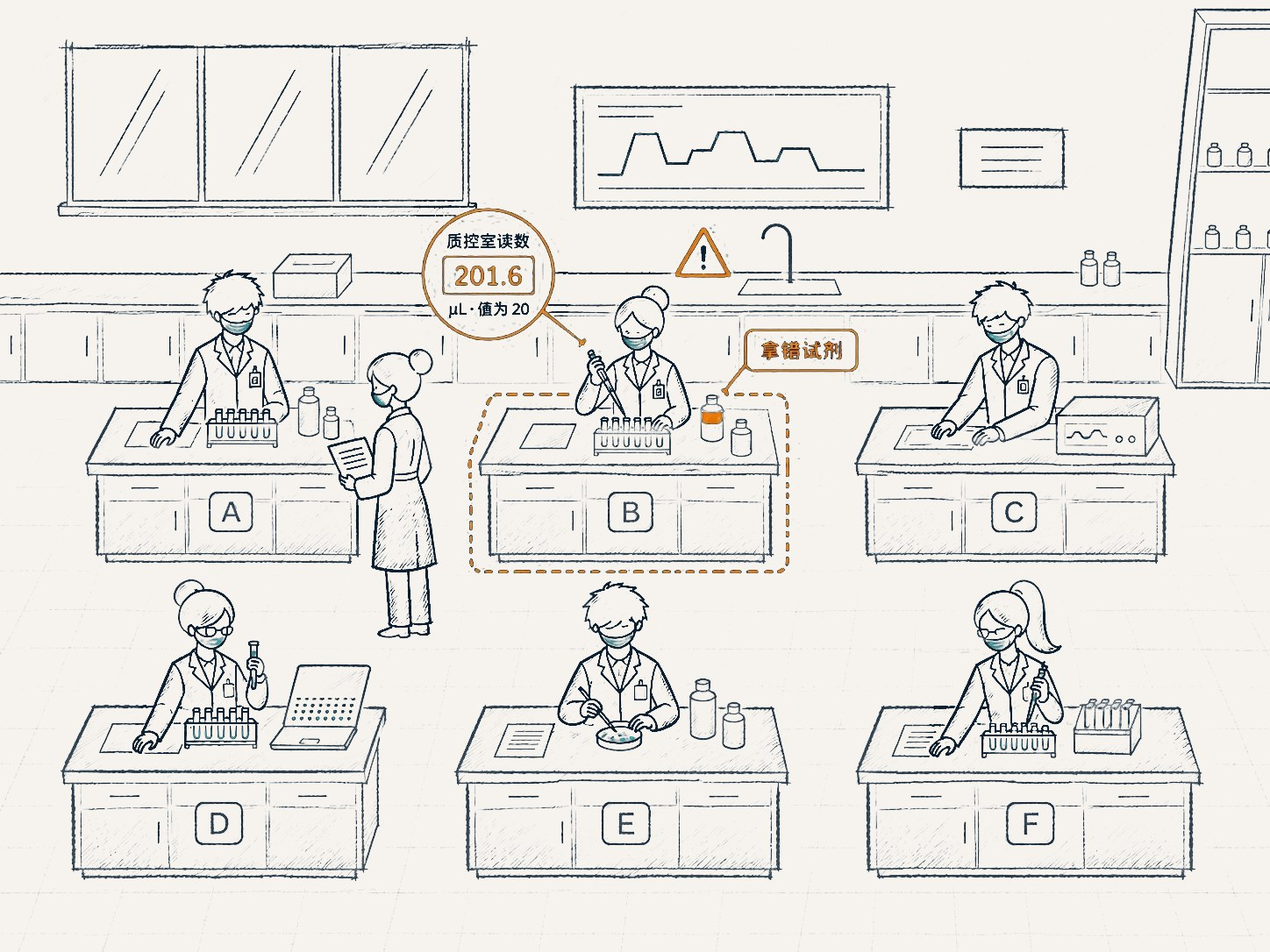
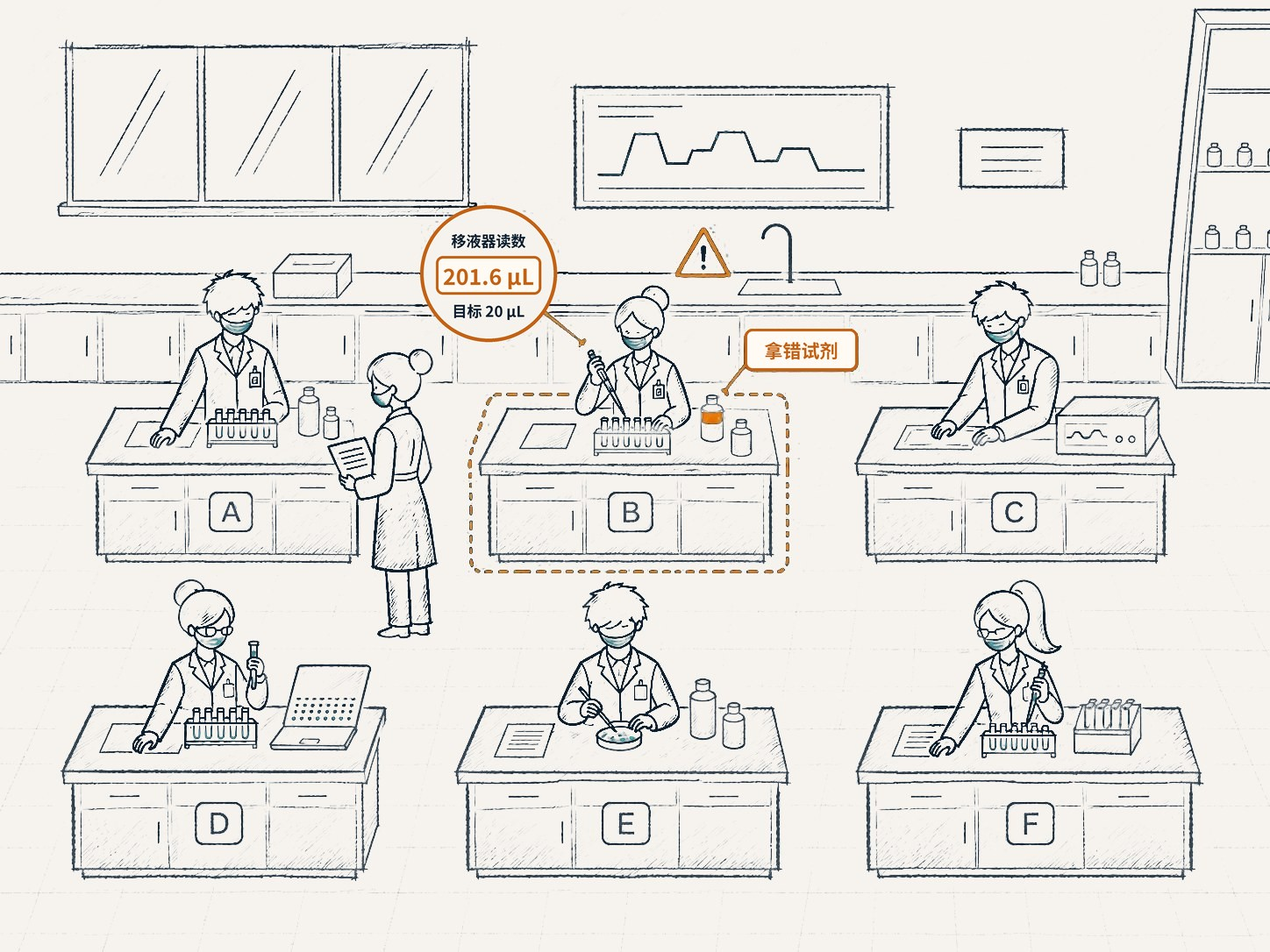
Story: 01 framed as today's class, 02-05 as the same student with LabMate; crisp redrawn labels in lab frames; section tints, teal/orange accents, navy metric panel
Claude-Session: https://claude.ai/code/session_01QyLKD32KRehfmpAtUqrHvu

Changed region(s): [[0.3108, 0.2127, 0.4662, 0.3646], [0.5905, 0.3343, 0.6837, 0.395]]

diff --git a/index.html b/index.html
@@ -11,10 +11,10 @@
 <script>if(/[?&]review/.test(location.search))document.documentElement.classList.add("review")</script>
 <link rel="stylesheet" href="styles.css?v=20261128-r19">
 <link rel="stylesheet" href="light.css?v=20261128-t3">
-<link rel="stylesheet" href="theme.css?v=20261128-t8">
+<link rel="stylesheet" href="theme.css?v=20261128-t10">
 </head>
 <body>
-<div class="view" data-view="zh-project" data-lang="zh" hidden><div class="site"><a class="skip-link" data-anchor="zh-project--main" href="#zh-project">跳转到内容</a><div class="lt"><header class="site-header"><div class="site-header-inner"><a class="site-logo" href="#zh-project"><svg aria-hidden="true" class="jw-mark" focusable="false" viewbox="-2 -2 92 104"><path d="M4 35V26A22 22 0 0 1 26 4H62A22 22 0 0 1 84 26V74A22 22 0 0 1 62 96H26A22 22 0 0 1 4 74V63" fill="none" stroke="currentColor" stroke-linecap="round" stroke-width="7.5"></path><circle cx="3.4" cy="49" fill="currentColor" r="5"></circle></svg><span class="site-logo-text"><b>见微科技</b><span>LabMate AI</span></span></a><nav aria-label="网站导航" class="site-nav" id="zh-project--site-nav"><a aria-current="page" href="#zh-project">项目介绍</a><a href="#zh-team">团队</a><a href="hackathon/">News</a><a href="product/demo/">Demo</a></nav><div class="site-actions"><button aria-controls="zh-project--site-nav" aria-expanded="false" aria-label="打开菜单" class="site-menu"><span aria-hidden="true" class="site-burger"><i></i><i></i></span></button></div></div></header><main id="zh-project--main"><div class="site-page"><div class="x-hero-track" data-hero-track="true"><section class="x-hero"><div aria-hidden="true" class="x-hero-light"></div><div aria-hidden="true" class="x-pov x-labpov"><div class="x-labpov-in"><div class="lb ls-hero"><img class="lb-img" src="bp/lab2-base.jpg?v=20261128-light2" width="1446" height="910" alt="实验室线稿插画：六张实验台，老师站在 A 台旁" decoding="async"/><img class="lb-img lb-frame" data-f="warn" src="bp/lab2-warn.jpg?v=20261128-light2" width="1446" height="910" alt="" aria-hidden="true" decoding="async"/><img class="lb-img lb-frame" data-f="detail" src="bp/lab2-detail.zh.jpg?v=20261128-light2" width="1446" height="910" alt="" aria-hidden="true" decoding="async"/><img class="lb-img lb-frame" data-f="teacher" src="bp/lab2-teacher.zh.jpg?v=20261128-light2" width="1446" height="910" alt="" aria-hidden="true" decoding="async"/><img class="lb-img lb-frame" data-f="after" src="bp/lab2-after.zh.jpg?v=20261128-light2" width="1446" height="910" alt="" aria-hidden="true" decoding="async"/><span class="lb-dim lb-dim-a" aria-hidden="true"></span><span class="lb-dim lb-dim-b" aria-hidden="true"></span><span class="lb-ring" aria-hidden="true" style="left:39.07330567081605%;top:20.0%;width:24.20470262793914%;height:38.24175824175824%"></span><svg class="lb-glasses" viewBox="0 0 80 26" aria-hidden="true" style="left:49.93084370677732%;top:24.285714285714285%;width:3.7344398340248963%"><path d="M2 6h76"></path><rect x="6" y="5" width="30" height="17" rx="5"></rect><rect x="44" y="5" width="30" height="17" rx="5"></rect><circle cx="70" cy="7.5" r="1.6" class="lb-cam"></circle></svg><span class="lb-chip" data-b="A" aria-hidden="true" style="left:21.23098201936376%;top:50.76923076923077%;--v:0.6666666666666666"><i class="lb-dot"></i>第 6/9 步<i class="lb-bar"></i></span><span class="lb-chip" data-b="B" aria-hidden="true" style="left:53.665283540802214%;top:50.76923076923077%;--v:0.1111111111111111"><i class="lb-dot"></i>第 1/9 步<i class="lb-bar"></i></span><span class="lb-chip" data-b="C" aria-hidden="true" style="left:84.37067773167358%;top:50.76923076923077%;--v:0.1111111111111111"><i class="lb-dot"></i>第 1/9 步<i class="lb-bar"></i></span><span class="lb-chip" data-b="D" aria-hidden="true" style="left:19.502074688796682%;top:90.54945054945055%;--v:0.5555555555555556"><i class="lb-dot"></i>第 5/9 步<i class="lb-bar"></i></span><span class="lb-chip" data-b="E" aria-hidden="true" style="left:51.65975103734441%;top:90.54945054945055%;--v:0.3333333333333333"><i class="lb-dot"></i>第 3/9 步<i class="lb-bar"></i></span><span class="lb-chip" data-b="F" aria-hidden="true" style="left:83.81742738589212%;top:90.54945054945055%;--v:0.7777777777777778"><i class="lb-dot"></i>第 7/9 步<i class="lb-bar"></i></span><span class="lb-tag lb-warn" data-t="warn" style="left:51.31396957123098%;top:14.505494505494507%">B 台出错了，老师没看到</span><span class="lb-tag lb-warn" data-t="detail" style="left:65.6984785615491%;top:61.75824175824176%">移液量设错，试剂也拿错了</span><span class="lb-tag lb-ok" data-t="dev" style="left:51.31396957123098%;top:14.505494505494507%">回到课前，先用平板准备</span><span class="lb-tag lb-ok" data-t="after" style="left:69.84785615491009%;top:5.714285714285714%">B 台已纠正；C 台的新提醒，老师也第一时间看到</span></div><p class="x-labpov-cap">一节 PCR 实验课，一位老师，六张台。</p></div></div><div class="x-hero-stage"><div class="g3d g3d-hero" data-glasses3d="hero"><svg aria-label="LabMate AR 眼镜示意图：镜片中叠加实验步骤提示" class="glasses-art has-view" role="img" viewbox="0 0 1200 430"><defs><lineargradient id="zh-project--hero-frame" x1="0" x2="0" y1="0" y2="1"><stop offset="0" stop-color="#5a6573"></stop><stop offset="0.2" stop-color="#2a3038"></stop><stop offset="1" stop-color="#0e1116"></stop></lineargradient><lineargradient id="zh-project--hero-glass" x1="0" x2="1" y1="0" y2="1"><stop offset="0" stop-color="#ffffff" stop-opacity="0.22"></stop><stop offset="0.35" stop-color="#ffffff" stop-opacity="0.04"></stop><stop offset="1" stop-color="#93b4d8" stop-opacity="0.08"></stop></lineargradient><lineargradient id="zh-project--hero-tint" x1="0" x2="0" y1="0" y2="1"><stop offset="0" stop-color="#0e2a33" stop-opacity="0.28"></stop><stop offset="1" stop-color="#0e2a33" stop-opacity="0.08"></stop></lineargradient><lineargradient id="zh-project--hero-rim" x1="0" x2="0" y1="0" y2="1"><stop offset="0" stop-color="#c9d6e3" stop-opacity="0.75"></stop><stop offset="0.3" stop-color="#93b4d8" stop-opacity="0.25"></stop><stop offset="1" stop-color="#ffffff" stop-opacity="0.05"></stop></lineargradient><filter height="140%" id="zh-project--hero-blur" width="140%" x="-20%" y="-20%"><fegaussianblur stddeviation="7"></fegaussianblur></filter><radialgradient cx="0.5" cy="0.5" id="zh-project--hero-fade" r="0.55"><stop offset="0.55" stop-color="#fff"></stop><stop offset="1" stop-color="#000"></stop></radialgradient><mask height="830" id="zh-project--hero-world" maskunits="userSpaceOnUse" width="1600" x="-200" y="-200"><rect fill="url(#zh-project--hero-fade)" height="830" width="1600" x="-200" y="-200"></rect></mask><lineargradient id="zh-project--hero-temple" x1="0" x2="0" y1="1" y2="0"><stop offset="0" stop-color="#2a323c"></stop><stop offset="1" stop-color="#2a323c" stop-opacity="0"></stop></lineargradient><clippath id="zh-project--hero-lenses"><rect height="274" rx="96" width="476" x="82" y="74"></rect><rect height="274" rx="96" width="476" x="642" y="74"></rect></clippath></defs><g class="ga-world" mask="url(#zh-project--hero-world)"><image height="1800" href="bp/glasses-guidance.jpg?v=20261126010235" opacity="0.42" width="1800" x="-42" y="-827"/></g><path d="M48 114 L80 108 L300 -40 L286 -42 Z" fill="url(#zh-project--hero-temple)"></path><path d="M1152 114 L1120 108 L900 -40 L914 -42 Z" fill="url(#zh-project--hero-temple)"></path><rect fill="url(#zh-project--hero-frame)" height="30" rx="9" width="44" x="40" y="104"></rect><rect fill="url(#zh-project--hero-frame)" height="30" rx="9" width="44" x="1116" y="104"></rect><circle cx="1142" cy="119" fill="#05070a" r="9" stroke="#2c3644" stroke-width="3"></circle><circle cx="1142" cy="119" fill="#123a4c" r="4"></circle><circle class="ga-led" cx="1157" cy="110" fill="#3ddc97" r="2.2"></circle><g fill="url(#zh-project--hero-frame)"><rect height="298" rx="108" width="502" x="70" y="62"></rect><rect height="298" rx="108" width="502" x="628" y="62"></rect><path d="M566 118 C584 92 616 92 634 118 L634 138 C616 116 584 116 566 138 Z"></path></g><g fill="none" stroke-linecap="round"><rect height="298" rx="108" stroke="url(#zh-project--hero-rim)" stroke-width="2" width="502" x="70" y="62"></rect><rect height="298" rx="108" stroke="url(#zh-project--hero-rim)" stroke-width="2" width="502" x="628" y="62"></rect></g><g fill="#2a3340"><ellipse cx="548" cy="214" rx="9" ry="20"></ellipse><ellipse cx="652" cy="214" rx="9" ry="20"></ellipse></g><g clip-path="url(#zh-project--hero-lenses)"><rect fill="#0a1119" height="430" width="1200" x="0" y="0"></rect><image class="ga-view" height="1800" href="bp/glasses-guidance.jpg?v=20261126010235" preserveaspectratio="xMinYMin slice" width="1800" x="-42" y="-827"/><rect fill="url(#zh-project--hero-tint)" height="430" width="1200" x="0" y="0"></rect><rect class="ga-scan" height="3" width="1200" x="0" y="74"></rect><rect fill="url(#zh-project--hero-glass)" height="430" width="1200" x="0" y="0"></rect><path d="M150 74 L250 74 L120 348 L82 348 L82 250 Z" fill="#ffffff" opacity="0.05"></path><path d="M710 74 L790 74 L660 348 L642 348 L642 300 Z" fill="#ffffff" opacity="0.05"></path></g><g fill="none" stroke="#93b4d8" stroke-opacity="0.35" stroke-width="1.5"><rect height="274" rx="96" width="476" x="82" y="74"></rect><rect height="274" rx="96" width="476" x="642" y="74"></rect></g><g class="ga-hud"><g class="ga-chip c1"><rect height="36" rx="9" width="250" x="122" y="100"></rect><text x="138" y="124">1/9 · 加水 20 µL</text></g><g class="ga-list c2"><path d="M138 176 V 302"></path><g class="on"><circle cx="138" cy="168" r="6"></circle><text x="156" y="174">调量</text></g><g class=""><circle cx="138" cy="202" r="6"></circle><text x="156" y="208">装枪头</text></g><g class=""><circle cx="138" cy="236" r="6"></circle><text x="156" y="242">吸液</text></g><g class=""><circle cx="138" cy="270" r="6"></circle><text x="156" y="276">排液</text></g><g class=""><circle cx="138" cy="304" r="6"></circle><text x="156" y="310">退枪头</text></g></g><g class="ga-box c3"><path d="M852 122 h-16 v22 M922 122 h16 v22 M852 268 h-16 v-22 M922 268 h16 v-22"></path></g><g class="ga-chip warn c4"><rect height="56" rx="9" width="140" x="676" y="124"></rect><text class="small" x="690" y="148">读数</text><text x="682" y="172">201.6 µL</text></g><g class="ga-chip ok c5"><rect height="36" rx="9" width="404" x="676" y="292"></rect><text x="692" y="316">朝减小方向调整旋钮 → 20 µL</text></g></g></svg></div><span aria-hidden="true" class="x-hero-floor"></span></div><div class="x-hero-copy"><p class="x-lockup">LabMate AI<!-- --> <span>多终端 AI 实验教学平台</span></p><h1>用 AR 眼镜，<br/>实时指导学生做实验。</h1><p class="x-hero-lead">学生先在平板上预习、练会仪器；做实验时，眼镜认出每一步，操作出错当场提示；老师在教师端看到每张实验台。</p><div class="x-hero-actions hero-actions3"><a class="x-btn" data-anchor="zh-project--journey" href="#zh-project">查看真实教学流程</a><a class="x-link" href="product/demo/">产品界面演示</a><a class="x-link" href="hackathon/">最新动态</a></div><p class="x-foot">眼镜为示意渲染；实验室为示意图。</p></div></section></div><section aria-label="一次完整实验" class="xj" data-journey="true" id="zh-project--journey"><div class="xj-stage" data-k="0" data-scene="0"><div aria-hidden="true" class="xj-bar"><span style="--i:0"><i></i><small>问题</small><b>01</b>实验室</span><span style="--i:1"><i></i><small>课前</small><b>02</b>灵感</span><span style="--i:2"><i></i><small>课前</small><b>03</b>仪器</span><span style="--i:3"><i></i><small>课上</small><b>04</b>AR 实验</span><span style="--i:4"><i></i><small>课上 · 课后</small><b>05</b>教师端</span></div><div class="xj-copy"><article class="xj-cap" data-cap="0"><p class="x-chap"><b>01</b><em class="xj-when">问题</em><span>实验室 · The lab</span></p><h2>一间实验室，一位老师，六张台。</h2><p class="xj-p">这是一节 PCR 实验课。每张台做到不同的步骤，老师只能站在一张台旁边；某一步做错，往往要等结果出来才发现。先看 B 台出了什么错，再回到课前，看 LabMate 怎么一路帮他。</p><ol class="xj-steps"><li data-num="1" data-step="0">六张台，进度各不相同</li><li data-num="2" data-step="1">老师在 A 台，顾不上其他台</li><li data-num="3" data-step="2">B 台出错了，没人发现</li><li data-num="4" data-step="3">错在哪：移液量设错，试剂也拿错了</li><li data-num="5" data-step="4">回到课前：B 台的同学先在平板上准备</li></ol></article><article class="xj-cap" data-cap="1"><p class="x-chap"><b>02</b><em class="xj-when">课前</em><span>灵感 · Inspiration</span></p><h2>从一个问题开始。</h2><p class="xj-p">回到课前。B 台的同学先在平板上选一个感兴趣的小场景，在 Dr. Pipette 引导下自己搭出 PCR 方案，弄清每一步为什么这样做。</p><ol class="xj-steps"><li data-num="1" data-step="0">选一个小场景</li><li data-num="2" data-step="1">说清你的问题</li><li data-num="3" data-step="2">问 Dr. Pipette</li><li data-num="4" data-step="3">找到要检测的片段</li><li data-num="5" data-step="4">设计引物与分组</li><li data-num="6" data-step="5">整理 PCR protocol 草案</li></ol></article><article class="xj-cap" data-cap="2"><p class="x-chap"><b>03</b><em class="xj-when">课前</em><span>仪器使用 · Instrument use</span></p><h2>先会用仪器，再做完整实验。</h2><p class="xj-p">还是在课前：一步步练会微量移液器，量程、握法、两档力度都练熟，再进实验室。</p><ol class="xj-steps"><li data-num="1" data-step="0">选择移液枪</li><li data-num="2" data-step="1">调整量程</li><li data-num="3" data-step="2">正确握持</li><li data-num="4" data-step="3">感受两档力度</li><li data-num="5" data-step="4">安装枪头</li><li data-num="6" data-step="5">吸液准备与吸取</li></ol></article><article class="xj-cap" data-cap="3"><p class="x-chap"><b>04</b><em class="xj-when">课上</em><span>AR 实验 · AR lab work</span></p><h2>戴上眼镜，走到实验台。</h2><p class="xj-p">课上，B 台的同学戴上眼镜。眼镜看见当前操作，对上流程的这一步，量程设错就在视野里当场提示。</p><ol class="xj-steps"><li data-num="1" data-step="0">看见 · 认出移液器和刻度窗</li><li data-num="2" data-step="1">对齐流程 · 第 1/9 步 · 加水 20 µL</li><li data-num="3" data-step="2">判断 · 读数 201.6 µL，超出量程</li><li data-num="4" data-step="3">提示 · 请调小旋钮</li></ol></article><article class="xj-cap" data-cap="4"><p class="x-chap"><b>05</b><em class="xj-when">课上 · 课后</em><span>教师端 · Teacher</span></p><h2>教师看见每一张台。</h2><p class="xj-p">B 台纠正后，教师端同步更新；C 台出现新情况，马上标红。老师不用守在每张台旁，也能先看到需要帮助的那一张，课后再回放关键事件。</p><ol class="xj-steps"><li data-num="1" data-step="0">出错的台，在教师端标红</li><li data-num="2" data-step="1">点开这一组，按时间看关键事件</li><li data-num="3" data-step="2">课后回放，复盘过程</li><li data-num="4" data-step="3">回到实验室：每张台都戴上眼镜，老师在平板上看到 C 台需要帮助</li><li data-num="5" data-step="4">B 台已纠正，C 台的新情况也第一时间看到</li></ol></article></div><div aria-hidden="true" class="xj-view"><div class="xj-lab"><div class="lb"><img class="lb-img" src="bp/lab2-base.jpg?v=20261128-light2" width="1446" height="910" alt="实验室线稿插画：六张实验台，老师站在 A 台旁" decoding="async"/><img class="lb-img lb-frame" data-f="warn" src="bp/lab2-warn.jpg?v=20261128-light2" width="1446" height="910" alt="" aria-hidden="true" decoding="async"/><img class="lb-img lb-frame" data-f="detail" src="bp/lab2-detail.zh.jpg?v=20261128-light2" width="1446" height="910" alt="" aria-hidden="true" decoding="async"/><img class="lb-img lb-frame" data-f="teacher" src="bp/lab2-teacher.zh.jpg?v=20261128-light2" width="1446" height="910" alt="" aria-hidden="true" decoding="async"/><img class="lb-img lb-frame" data-f="after" src="bp/lab2-after.zh.jpg?v=20261128-light2" width="1446" height="910" alt="" aria-hidden="true" decoding="async"/><span class="lb-dim lb-dim-a" aria-hidden="true"></span><span class="lb-dim lb-dim-b" aria-hidden="true"></span><span class="lb-ring" aria-hidden="true" style="left:39.07330567081605%;top:20.0%;width:24.20470262793914%;height:38.24175824175824%"></span><svg class="lb-glasses" viewBox="0 0 80 26" aria-hidden="true" style="left:49.93084370677732%;top:24.285714285714285%;width:3.7344398340248963%"><path d="M2 6h76"></path><rect x="6" y="5" width="30" height="17" rx="5"></rect><rect x="44" y="5" width="30" height="17" rx="5"></rect><circle cx="70" cy="7.5" r="1.6" class="lb-cam"></circle></svg><span class="lb-chip" data-b="A" aria-hidden="true" style="left:21.23098201936376%;top:50.76923076923077%;--v:0.6666666666666666"><i class="lb-dot"></i>第 6/9 步<i class="lb-bar"></i></span><span class="lb-chip" data-b="B" aria-hidden="true" style="left:53.665283540802214%;top:50.76923076923077%;--v:0.1111111111111111"><i class="lb-dot"></i>第 1/9 步<i class="lb-bar"></i></span><span class="lb-chip" data-b="C" aria-hidden="true" style="left:84.37067773167358%;top:50.76923076923077%;--v:0.1111111111111111"><i class="lb-dot"></i>第 1/9 步<i class="lb-bar"></i></span><span class="lb-chip" data-b="D" aria-hidden="true" style="left:19.502074688796682%;top:90.54945054945055%;--v:0.5555555555555556"><i class="lb-dot"></i>第 5/9 步<i class="lb-bar"></i></span><span class="lb-chip" data-b="E" aria-hidden="true" style="left:51.65975103734441%;top:90.54945054945055%;--v:0.3333333333333333"><i class="lb-dot"></i>第 3/9 步<i class="lb-bar"></i></span><span class="lb-chip" data-b="F" aria-hidden="true" style="left:83.81742738589212%;top:90.54945054945055%;--v:0.7777777777777778"><i class="lb-dot"></i>第 7/9 步<i class="lb-bar"></i></span><span class="lb-tag lb-warn" data-t="warn" style="left:51.31396957123098%;top:14.505494505494507%">B 台出错了，老师没看到</span><span class="lb-tag lb-warn" data-t="detail" style="left:65.6984785615491%;top:61.75824175824176%">移液量设错，试剂也拿错了</span><span class="lb-tag lb-ok" data-t="dev" style="left:51.31396957123098%;top:14.505494505494507%">回到课前，先用平板准备</span><span class="lb-tag lb-ok" data-t="after" style="left:69.84785615491009%;top:5.714285714285714%">B 台已纠正；C 台的新提醒，老师也第一时间看到</span></div></div><div class="xj-tablet"><div class="xj-screen"><img alt="" class="xj-shot" data-shot="0" decoding="async" height="1161" loading="eager" src="bp/app-scene.jpg?v=20261126010235" style="color:transparent" width="1600"/><img alt="" class="xj-shot" data-shot="1" decoding="async" height="1161" loading="lazy" src="bp/app-question.jpg?v=20261126010235" style="color:transparent" width="1600"/><img alt="" class="xj-shot" data-shot="2" decoding="async" height="1161" loading="lazy" src="bp/app-pipette.jpg?v=20261126010235" style="color:transparent" width="1600"/><img alt="" class="xj-shot" data-shot="3" decoding="async" height="1161" loading="lazy" src="bp/app-segment.jpg?v=20261126010235" style="color:transparent" width="1600"/><img alt="" class="xj-shot" data-shot="4" decoding="async" height="1161" loading="lazy" src="bp/app-design.jpg?v=20261126010235" style="color:transparent" width="1600"/><img alt="" class="xj-shot" data-shot="5" decoding="async" height="1161" loading="lazy" src="bp/app-protocol.jpg?v=20261126010235" style="color:transparent" width="1600"/><img alt="" class="xj-inst" decoding="async" height="1741" loading="eager" src="bp/instrument-hd.jpg?v=20261127-fix" style="color:transparent" width="2400"/><span class="xj-hl"></span></div></div><div class="xj-zoom"><img alt="" class="xj-z" data-z="1-0" decoding="async" height="896" loading="lazy" src="bp/z-scene.jpg?v=20261126010235" style="color:transparent" width="1600"/><img alt="" class="xj-z" data-z="1-1" decoding="async" height="723" loading="lazy" src="bp/z-question.jpg?v=20261126010235" style="color:transparent" width="1600"/><img alt="" class="xj-z" data-z="1-2" decoding="async" height="647" loading="lazy" src="bp/z-pipette.jpg?v=20261126010235" style="color:transparent" width="1600"/><img alt="" class="xj-z" data-z="1-3" decoding="async" height="516" loading="lazy" src="bp/z-segment.jpg?v=20261126010235" style="color:transparent" width="1600"/><img alt="" class="xj-z" data-z="1-4" decoding="async" height="430" loading="lazy" src="bp/z-design.jpg?v=20261126010235" style="color:transparent" width="1600"/><img alt="" class="xj-z" data-z="1-5" decoding="async" height="416" loading="lazy" src="bp/z-protocol.jpg?v=20261126010235" style="color:transparent" width="1600"/><img alt="" class="xj-z" data-z="2-0" decoding="async" height="283" loading="lazy" src="bp/z-inst0.jpg?v=20261126010235" style="color:transparent" width="1400"/><img alt="" class="xj-z" data-z="2-1" decoding="async" height="283" loading="lazy" src="bp/z-inst1.jpg?v=20261126010235" style="color:transparent" width="1400"/><img alt="" class="xj-z" data-z="2-2" decoding="async" height="283" loading="lazy" src="bp/z-inst2.jpg?v=20261126010235" style="color:transparent" width="1400"/><img alt="" class="xj-z" data-z="2-3" decoding="async" height="283" loading="lazy" src="bp/z-inst3.jpg?v=20261126010235" style="color:transparent" width="1400"/><img alt="" class="xj-z" data-z="2-4" decoding="async" height="283" loading="lazy" src="bp/z-inst4.jpg?v=20261126010235" style="color:transparent" width="1400"/><img alt="" class="xj-z" data-z="2-5" decoding="async" height="566" loading="lazy" src="bp/z-inst5.jpg?v=20261126010235" style="color:transparent" width="1400"/></div><div class="xj-glasses"><div class="g3d g3d-mini" data-glasses3d="mini"></div></div><div class="xj-bench"><img alt="" decoding="async" height="675" loading="eager" src="bp/bench-pov.jpg?v=20261126010235" style="color:transparent" width="1200"/><span class="xj-ret"></span><div class="xj-hud xj-hud-task"><b>第 1/9 步</b>加水 · 20 µL</div><div class="xj-hud xj-hud-read"><span>当前读数</span><strong>201.6 µL</strong><em>超出标称量程</em></div><div class="xj-hud xj-hud-say"><i></i>请朝减小方向调整旋钮，目标 20 微升。</div></div><div class="xj-monitor"><div class="xj-mscreen"><img alt="" decoding="async" height="944" loading="eager" src="bp/teacher-workspace.png?v=20261128-c" style="color:transparent" width="1458"/><span class="xj-fcard"></span><span class="xj-fpulse"></span><span class="xj-tgt" data-tgt="0" style="left:28.7%;top:74.5%">01</span><span class="xj-tgt" data-tgt="1" style="left:57.7%;top:69.5%">02</span><span class="xj-tgt" data-tgt="2" style="left:63.3%;top:20.3%">03</span></div></div></div></div><p class="x-foot xj-foot">实验室为示意图；画面来自学生端、仪器训练与教师端原型及演示录屏；眼镜为示意渲染，界面为中文版。</p></section><section class="x-band x-ev ev2" id="zh-project--evidence"><div class="x-wrap"><header class="x-head"><p class="x-kicker">识别效果</p><h2>看懂实验过程，而不只是认出器材。</h2><p>提示要有用，眼镜得知道学生正在做哪一步、做得对不对。</p></header>
+<div class="view" data-view="zh-project" data-lang="zh" hidden><div class="site"><a class="skip-link" data-anchor="zh-project--main" href="#zh-project">跳转到内容</a><div class="lt"><header class="site-header"><div class="site-header-inner"><a class="site-logo" href="#zh-project"><svg aria-hidden="true" class="jw-mark" focusable="false" viewbox="-2 -2 92 104"><path d="M4 35V26A22 22 0 0 1 26 4H62A22 22 0 0 1 84 26V74A22 22 0 0 1 62 96H26A22 22 0 0 1 4 74V63" fill="none" stroke="currentColor" stroke-linecap="round" stroke-width="7.5"></path><circle cx="3.4" cy="49" fill="currentColor" r="5"></circle></svg><span class="site-logo-text"><b>见微科技</b><span>LabMate AI</span></span></a><nav aria-label="网站导航" class="site-nav" id="zh-project--site-nav"><a aria-current="page" href="#zh-project">项目介绍</a><a href="#zh-team">团队</a><a href="hackathon/">News</a><a href="product/demo/">Demo</a></nav><div class="site-actions"><button aria-controls="zh-project--site-nav" aria-expanded="false" aria-label="打开菜单" class="site-menu"><span aria-hidden="true" class="site-burger"><i></i><i></i></span></button></div></div></header><main id="zh-project--main"><div class="site-page"><div class="x-hero-track" data-hero-track="true"><section class="x-hero"><div aria-hidden="true" class="x-hero-light"></div><div aria-hidden="true" class="x-pov x-labpov"><div class="x-labpov-in"><div class="lb ls-hero"><img class="lb-img" src="bp/lab2-base.jpg?v=20261128-light3" width="1446" height="910" alt="实验室线稿插画：六张实验台，老师站在 A 台旁" decoding="async"/><img class="lb-img lb-frame" data-f="warn" src="bp/lab2-warn.jpg?v=20261128-light3" width="1446" height="910" alt="" aria-hidden="true" decoding="async"/><img class="lb-img lb-frame" data-f="detail" src="bp/lab2-detail.zh.jpg?v=20261128-light3" width="1446" height="910" alt="" aria-hidden="true" decoding="async"/><img class="lb-img lb-frame" data-f="teacher" src="bp/lab2-teacher.zh.jpg?v=20261128-light3" width="1446" height="910" alt="" aria-hidden="true" decoding="async"/><img class="lb-img lb-frame" data-f="after" src="bp/lab2-after.zh.jpg?v=20261128-light3" width="1446" height="910" alt="" aria-hidden="true" decoding="async"/><span class="lb-dim lb-dim-a" aria-hidden="true"></span><span class="lb-dim lb-dim-b" aria-hidden="true"></span><span class="lb-ring" aria-hidden="true" style="left:39.07330567081605%;top:20.0%;width:24.20470262793914%;height:38.24175824175824%"></span><svg class="lb-glasses" viewBox="0 0 80 26" aria-hidden="true" style="left:49.93084370677732%;top:24.285714285714285%;width:3.7344398340248963%"><path d="M2 6h76"></path><rect x="6" y="5" width="30" height="17" rx="5"></rect><rect x="44" y="5" width="30" height="17" rx="5"></rect><circle cx="70" cy="7.5" r="1.6" class="lb-cam"></circle></svg><span class="lb-chip" data-b="A" aria-hidden="true" style="left:21.23098201936376%;top:50.76923076923077%;--v:0.6666666666666666"><i class="lb-dot"></i>第 6/9 步<i class="lb-bar"></i></span><span class="lb-chip" data-b="B" aria-hidden="true" style="left:53.665283540802214%;top:50.76923076923077%;--v:0.1111111111111111"><i class="lb-dot"></i>第 1/9 步<i class="lb-bar"></i></span><span class="lb-chip" data-b="C" aria-hidden="true" style="left:84.37067773167358%;top:50.76923076923077%;--v:0.1111111111111111"><i class="lb-dot"></i>第 1/9 步<i class="lb-bar"></i></span><span class="lb-chip" data-b="D" aria-hidden="true" style="left:19.502074688796682%;top:90.54945054945055%;--v:0.5555555555555556"><i class="lb-dot"></i>第 5/9 步<i class="lb-bar"></i></span><span class="lb-chip" data-b="E" aria-hidden="true" style="left:51.65975103734441%;top:90.54945054945055%;--v:0.3333333333333333"><i class="lb-dot"></i>第 3/9 步<i class="lb-bar"></i></span><span class="lb-chip" data-b="F" aria-hidden="true" style="left:83.81742738589212%;top:90.54945054945055%;--v:0.7777777777777778"><i class="lb-dot"></i>第 7/9 步<i class="lb-bar"></i></span><span class="lb-tag lb-warn" data-t="warn" style="left:51.31396957123098%;top:14.505494505494507%">B 台出错了，老师没看到</span><span class="lb-tag lb-warn" data-t="detail" style="left:65.6984785615491%;top:61.75824175824176%">移液量设错，试剂也拿错了</span><span class="lb-tag lb-ok" data-t="dev" style="left:51.31396957123098%;top:14.505494505494507%">回到课前，先用平板准备</span><span class="lb-tag lb-ok" data-t="after" style="left:69.84785615491009%;top:5.714285714285714%">B 台已纠正；C 台的新提醒，老师也第一时间看到</span></div><p class="x-labpov-cap">一节 PCR 实验课，一位老师，六张台。</p></div></div><div class="x-hero-stage"><div class="g3d g3d-hero" data-glasses3d="hero"><svg aria-label="LabMate AR 眼镜示意图：镜片中叠加实验步骤提示" class="glasses-art has-view" role="img" viewbox="0 0 1200 430"><defs><lineargradient id="zh-project--hero-frame" x1="0" x2="0" y1="0" y2="1"><stop offset="0" stop-color="#5a6573"></stop><stop offset="0.2" stop-color="#2a3038"></stop><stop offset="1" stop-color="#0e1116"></stop></lineargradient><lineargradient id="zh-project--hero-glass" x1="0" x2="1" y1="0" y2="1"><stop offset="0" stop-color="#ffffff" stop-opacity="0.22"></stop><stop offset="0.35" stop-color="#ffffff" stop-opacity="0.04"></stop><stop offset="1" stop-color="#93b4d8" stop-opacity="0.08"></stop></lineargradient><lineargradient id="zh-project--hero-tint" x1="0" x2="0" y1="0" y2="1"><stop offset="0" stop-color="#0e2a33" stop-opacity="0.28"></stop><stop offset="1" stop-color="#0e2a33" stop-opacity="0.08"></stop></lineargradient><lineargradient id="zh-project--hero-rim" x1="0" x2="0" y1="0" y2="1"><stop offset="0" stop-color="#c9d6e3" stop-opacity="0.75"></stop><stop offset="0.3" stop-color="#93b4d8" stop-opacity="0.25"></stop><stop offset="1" stop-color="#ffffff" stop-opacity="0.05"></stop></lineargradient><filter height="140%" id="zh-project--hero-blur" width="140%" x="-20%" y="-20%"><fegaussianblur stddeviation="7"></fegaussianblur></filter><radialgradient cx="0.5" cy="0.5" id="zh-project--hero-fade" r="0.55"><stop offset="0.55" stop-color="#fff"></stop><stop offset="1" stop-color="#000"></stop></radialgradient><mask height="830" id="zh-project--hero-world" maskunits="userSpaceOnUse" width="1600" x="-200" y="-200"><rect fill="url(#zh-project--hero-fade)" height="830" width="1600" x="-200" y="-200"></rect></mask><lineargradient id="zh-project--hero-temple" x1="0" x2="0" y1="1" y2="0"><stop offset="0" stop-color="#2a323c"></stop><stop offset="1" stop-color="#2a323c" stop-opacity="0"></stop></lineargradient><clippath id="zh-project--hero-lenses"><rect height="274" rx="96" width="476" x="82" y="74"></rect><rect height="274" rx="96" width="476" x="642" y="74"></rect></clippath></defs><g class="ga-world" mask="url(#zh-project--hero-world)"><image height="1800" href="bp/glasses-guidance.jpg?v=20261126010235" opacity="0.42" width="1800" x="-42" y="-827"/></g><path d="M48 114 L80 108 L300 -40 L286 -42 Z" fill="url(#zh-project--hero-temple)"></path><path d="M1152 114 L1120 108 L900 -40 L914 -42 Z" fill="url(#zh-project--hero-temple)"></path><rect fill="url(#zh-project--hero-frame)" height="30" rx="9" width="44" x="40" y="104"></rect><rect fill="url(#zh-project--hero-frame)" height="30" rx="9" width="44" x="1116" y="104"></rect><circle cx="1142" cy="119" fill="#05070a" r="9" stroke="#2c3644" stroke-width="3"></circle><circle cx="1142" cy="119" fill="#123a4c" r="4"></circle><circle class="ga-led" cx="1157" cy="110" fill="#3ddc97" r="2.2"></circle><g fill="url(#zh-project--hero-frame)"><rect height="298" rx="108" width="502" x="70" y="62"></rect><rect height="298" rx="108" width="502" x="628" y="62"></rect><path d="M566 118 C584 92 616 92 634 118 L634 138 C616 116 584 116 566 138 Z"></path></g><g fill="none" stroke-linecap="round"><rect height="298" rx="108" stroke="url(#zh-project--hero-rim)" stroke-width="2" width="502" x="70" y="62"></rect><rect height="298" rx="108" stroke="url(#zh-project--hero-rim)" stroke-width="2" width="502" x="628" y="62"></rect></g><g fill="#2a3340"><ellipse cx="548" cy="214" rx="9" ry="20"></ellipse><ellipse cx="652" cy="214" rx="9" ry="20"></ellipse></g><g clip-path="url(#zh-project--hero-lenses)"><rect fill="#0a1119" height="430" width="1200" x="0" y="0"></rect><image class="ga-view" height="1800" href="bp/glasses-guidance.jpg?v=20261126010235" preserveaspectratio="xMinYMin slice" width="1800" x="-42" y="-827"/><rect fill="url(#zh-project--hero-tint)" height="430" width="1200" x="0" y="0"></rect><rect class="ga-scan" height="3" width="1200" x="0" y="74"></rect><rect fill="url(#zh-project--hero-glass)" height="430" width="1200" x="0" y="0"></rect><path d="M150 74 L250 74 L120 348 L82 348 L82 250 Z" fill="#ffffff" opacity="0.05"></path><path d="M710 74 L790 74 L660 348 L642 348 L642 300 Z" fill="#ffffff" opacity="0.05"></path></g><g fill="none" stroke="#93b4d8" stroke-opacity="0.35" stroke-width="1.5"><rect height="274" rx="96" width="476" x="82" y="74"></rect><rect height="274" rx="96" width="476" x="642" y="74"></rect></g><g class="ga-hud"><g class="ga-chip c1"><rect height="36" rx="9" width="250" x="122" y="100"></rect><text x="138" y="124">1/9 · 加水 20 µL</text></g><g class="ga-list c2"><path d="M138 176 V 302"></path><g class="on"><circle cx="138" cy="168" r="6"></circle><text x="156" y="174">调量</text></g><g class=""><circle cx="138" cy="202" r="6"></circle><text x="156" y="208">装枪头</text></g><g class=""><circle cx="138" cy="236" r="6"></circle><text x="156" y="242">吸液</text></g><g class=""><circle cx="138" cy="270" r="6"></circle><text x="156" y="276">排液</text></g><g class=""><circle cx="138" cy="304" r="6"></circle><text x="156" y="310">退枪头</text></g></g><g class="ga-box c3"><path d="M852 122 h-16 v22 M922 122 h16 v22 M852 268 h-16 v-22 M922 268 h16 v-22"></path></g><g class="ga-chip warn c4"><rect height="56" rx="9" width="140" x="676" y="124"></rect><text class="small" x="690" y="148">读数</text><text x="682" y="172">201.6 µL</text></g><g class="ga-chip ok c5"><rect height="36" rx="9" width="404" x="676" y="292"></rect><text x="692" y="316">朝减小方向调整旋钮 → 20 µL</text></g></g></svg></div><span aria-hidden="true" class="x-hero-floor"></span></div><div class="x-hero-copy"><p class="x-lockup">LabMate AI<!-- --> <span>多终端 AI 实验教学平台</span></p><h1>用 AR 眼镜，<br/>实时指导学生做实验。</h1><p class="x-hero-lead">学生先在平板上预习、练会仪器；做实验时，眼镜认出每一步，操作出错当场提示；老师在教师端看到每张实验台。</p><div class="x-hero-actions hero-actions3"><a class="x-btn" data-anchor="zh-project--journey" href="#zh-project">查看真实教学流程</a><a class="x-link" href="product/demo/">产品界面演示</a><a class="x-link" href="hackathon/">最新动态</a></div><p class="x-foot">眼镜为示意渲染；实验室为示意图。</p></div></section></div><section aria-label="一次完整实验" class="xj" data-journey="true" id="zh-project--journey"><div class="xj-stage" data-k="0" data-scene="0"><div aria-hidden="true" class="xj-bar"><span style="--i:0"><i></i><small>现在</small><b>01</b>实验室</span><span style="--i:1"><i></i><small>课前</small><b>02</b>灵感</span><span style="--i:2"><i></i><small>课前</small><b>03</b>仪器</span><span style="--i:3"><i></i><small>课上</small><b>04</b>AR 实验</span><span style="--i:4"><i></i><small>课上 · 课后</small><b>05</b>教师端</span></div><div class="xj-copy"><article class="xj-cap" data-cap="0"><p class="x-chap"><b>01</b><em class="xj-when">现在</em><span>没有 LabMate 的课堂</span></p><h2>一间实验室，一位老师，六张台。</h2><p class="xj-p">先看一节普通的 PCR 实验课。六张台同时在做，老师只有一位，只能站在一张台旁边。B 台的同学把移液量设错、还拿错了试剂，要等结果出来才发现。</p><ol class="xj-steps"><li data-num="1" data-step="0">六张台，进度各不相同</li><li data-num="2" data-step="1">老师在 A 台，顾不上其他台</li><li data-num="3" data-step="2">B 台出错了，没人发现</li><li data-num="4" data-step="3">错在哪：移液量设错，试剂也拿错了</li><li data-num="5" data-step="4">接下来，跟着 B 台的这位同学，看用上 LabMate 后有什么不同</li></ol></article><article class="xj-cap" data-cap="1"><p class="x-chap"><b>02</b><em class="xj-when">课前</em><span>灵感 · Inspiration</span></p><h2>从一个问题开始。</h2><p class="xj-p">这一次，从课前开始。B 台的同学先在平板上选一个感兴趣的小场景，在 Dr. Pipette 引导下自己搭出 PCR 方案，弄清每一步为什么这样做。</p><ol class="xj-steps"><li data-num="1" data-step="0">选一个小场景</li><li data-num="2" data-step="1">说清你的问题</li><li data-num="3" data-step="2">问 Dr. Pipette</li><li data-num="4" data-step="3">找到要检测的片段</li><li data-num="5" data-step="4">设计引物与分组</li><li data-num="6" data-step="5">整理 PCR protocol 草案</li></ol></article><article class="xj-cap" data-cap="2"><p class="x-chap"><b>03</b><em class="xj-when">课前</em><span>仪器使用 · Instrument use</span></p><h2>先会用仪器，再做完整实验。</h2><p class="xj-p">还是在课前：一步步练会微量移液器，量程、握法、两档力度都练熟，再进实验室。上次设错的移液量，在这里先练对。</p><ol class="xj-steps"><li data-num="1" data-step="0">选择移液枪</li><li data-num="2" data-step="1">调整量程</li><li data-num="3" data-step="2">正确握持</li><li data-num="4" data-step="3">感受两档力度</li><li data-num="5" data-step="4">安装枪头</li><li data-num="6" data-step="5">吸液准备与吸取</li></ol></article><article class="xj-cap" data-cap="3"><p class="x-chap"><b>04</b><em class="xj-when">课上</em><span>AR 实验 · AR lab work</span></p><h2>戴上眼镜，走到实验台。</h2><p class="xj-p">课上，B 台的同学戴上眼镜。这一次移液量刚设错，眼镜就认出来，在视野里提示他调回 20 µL，不用等到结果出来。</p><ol class="xj-steps"><li data-num="1" data-step="0">看见 · 认出移液器和刻度窗</li><li data-num="2" data-step="1">对齐流程 · 第 1/9 步 · 加水 20 µL</li><li data-num="3" data-step="2">判断 · 读数 201.6 µL，超出量程</li><li data-num="4" data-step="3">提示 · 请调小旋钮</li></ol></article><article class="xj-cap" data-cap="4"><p class="x-chap"><b>05</b><em class="xj-when">课上 · 课后</em><span>教师端 · Teacher</span></p><h2>教师看见每一张台。</h2><p class="xj-p">回到开头那间实验室：老师在平板上看到每一张台。B 台已经自己纠正；C 台出现新情况，马上标红。老师先去需要帮助的那一张，课后还能回放关键事件。</p><ol class="xj-steps"><li data-num="1" data-step="0">出错的台，在教师端标红</li><li data-num="2" data-step="1">点开这一组，按时间看关键事件</li><li data-num="3" data-step="2">课后回放，复盘过程</li><li data-num="4" data-step="3">回到实验室：每张台都戴上眼镜，老师在平板上看到 C 台需要帮助</li><li data-num="5" data-step="4">B 台已纠正，C 台的新情况也第一时间看到</li></ol></article></div><div aria-hidden="true" class="xj-view"><div class="xj-lab"><div class="lb"><img class="lb-img" src="bp/lab2-base.jpg?v=20261128-light3" width="1446" height="910" alt="实验室线稿插画：六张实验台，老师站在 A 台旁" decoding="async"/><img class="lb-img lb-frame" data-f="warn" src="bp/lab2-warn.jpg?v=20261128-light3" width="1446" height="910" alt="" aria-hidden="true" decoding="async"/><img class="lb-img lb-frame" data-f="detail" src="bp/lab2-detail.zh.jpg?v=20261128-light3" width="1446" height="910" alt="" aria-hidden="true" decoding="async"/><img class="lb-img lb-frame" data-f="teacher" src="bp/lab2-teacher.zh.jpg?v=20261128-light3" width="1446" height="910" alt="" aria-hidden="true" decoding="async"/><img class="lb-img lb-frame" data-f="after" src="bp/lab2-after.zh.jpg?v=20261128-light3" width="1446" height="910" alt="" aria-hidden="true" decoding="async"/><span class="lb-dim lb-dim-a" aria-hidden="true"></span><span class="lb-dim lb-dim-b" aria-hidden="true"></span><span class="lb-ring" aria-hidden="true" style="left:39.07330567081605%;top:20.0%;width:24.20470262793914%;height:38.24175824175824%"></span><svg class="lb-glasses" viewBox="0 0 80 26" aria-hidden="true" style="left:49.93084370677732%;top:24.285714285714285%;width:3.7344398340248963%"><path d="M2 6h76"></path><rect x="6" y="5" width="30" height="17" rx="5"></rect><rect x="44" y="5" width="30" height="17" rx="5"></rect><circle cx="70" cy="7.5" r="1.6" class="lb-cam"></circle></svg><span class="lb-chip" data-b="A" aria-hidden="true" style="left:21.23098201936376%;top:50.76923076923077%;--v:0.6666666666666666"><i class="lb-dot"></i>第 6/9 步<i class="lb-bar"></i></span><span class="lb-chip" data-b="B" aria-hidden="true" style="left:53.665283540802214%;top:50.76923076923077%;--v:0.1111111111111111"><i class="lb-dot"></i>第 1/9 步<i class="lb-bar"></i></span><span class="lb-chip" data-b="C" aria-hidden="true" style="left:84.37067773167358%;top:50.76923076923077%;--v:0.1111111111111111"><i class="lb-dot"></i>第 1/9 步<i class="lb-bar"></i></span><span class="lb-chip" data-b="D" aria-hidden="true" style="left:19.502074688796682%;top:90.54945054945055%;--v:0.5555555555555556"><i class="lb-dot"></i>第 5/9 步<i class="lb-bar"></i></span><span class="lb-chip" data-b="E" aria-hidden="true" style="left:51.65975103734441%;top:90.54945054945055%;--v:0.3333333333333333"><i class="lb-dot"></i>第 3/9 步<i class="lb-bar"></i></span><span class="lb-chip" data-b="F" aria-hidden="true" style="left:83.81742738589212%;top:90.54945054945055%;--v:0.7777777777777778"><i class="lb-dot"></i>第 7/9 步<i class="lb-bar"></i></span><span class="lb-tag lb-warn" data-t="warn" style="left:51.31396957123098%;top:14.505494505494507%">B 台出错了，老师没看到</span><span class="lb-tag lb-warn" data-t="detail" style="left:65.6984785615491%;top:61.75824175824176%">移液量设错，试剂也拿错了</span><span class="lb-tag lb-ok" data-t="dev" style="left:51.31396957123098%;top:14.505494505494507%">回到课前，先用平板准备</span><span class="lb-tag lb-ok" data-t="after" style="left:69.84785615491009%;top:5.714285714285714%">B 台已纠正；C 台的新提醒，老师也第一时间看到</span></div></div><div class="xj-tablet"><div class="xj-screen"><img alt="" class="xj-shot" data-shot="0" decoding="async" height="1161" loading="eager" src="bp/app-scene.jpg?v=20261126010235" style="color:transparent" width="1600"/><img alt="" class="xj-shot" data-shot="1" decoding="async" height="1161" loading="lazy" src="bp/app-question.jpg?v=20261126010235" style="color:transparent" width="1600"/><img alt="" class="xj-shot" data-shot="2" decoding="async" height="1161" loading="lazy" src="bp/app-pipette.jpg?v=20261126010235" style="color:transparent" width="1600"/><img alt="" class="xj-shot" data-shot="3" decoding="async" height="1161" loading="lazy" src="bp/app-segment.jpg?v=20261126010235" style="color:transparent" width="1600"/><img alt="" class="xj-shot" data-shot="4" decoding="async" height="1161" loading="lazy" src="bp/app-design.jpg?v=20261126010235" style="color:transparent" width="1600"/><img alt="" class="xj-shot" data-shot="5" decoding="async" height="1161" loading="lazy" src="bp/app-protocol.jpg?v=20261126010235" style="color:transparent" width="1600"/><img alt="" class="xj-inst" decoding="async" height="1741" loading="eager" src="bp/instrument-hd.jpg?v=20261127-fix" style="color:transparent" width="2400"/><span class="xj-hl"></span></div></div><div class="xj-zoom"><img alt="" class="xj-z" data-z="1-0" decoding="async" height="896" loading="lazy" src="bp/z-scene.jpg?v=20261126010235" style="color:transparent" width="1600"/><img alt="" class="xj-z" data-z="1-1" decoding="async" height="723" loading="lazy" src="bp/z-question.jpg?v=20261126010235" style="color:transparent" width="1600"/><img alt="" class="xj-z" data-z="1-2" decoding="async" height="647" loading="lazy" src="bp/z-pipette.jpg?v=20261126010235" style="color:transparent" width="1600"/><img alt="" class="xj-z" data-z="1-3" decoding="async" height="516" loading="lazy" src="bp/z-segment.jpg?v=20261126010235" style="color:transparent" width="1600"/><img alt="" class="xj-z" data-z="1-4" decoding="async" height="430" loading="lazy" src="bp/z-design.jpg?v=20261126010235" style="color:transparent" width="1600"/><img alt="" class="xj-z" data-z="1-5" decoding="async" height="416" loading="lazy" src="bp/z-protocol.jpg?v=20261126010235" style="color:transparent" width="1600"/><img alt="" class="xj-z" data-z="2-0" decoding="async" height="283" loading="lazy" src="bp/z-inst0.jpg?v=20261126010235" style="color:transparent" width="1400"/><img alt="" class="xj-z" data-z="2-1" decoding="async" height="283" loading="lazy" src="bp/z-inst1.jpg?v=20261126010235" style="color:transparent" width="1400"/><img alt="" class="xj-z" data-z="2-2" decoding="async" height="283" loading="lazy" src="bp/z-inst2.jpg?v=20261126010235" style="color:transparent" width="1400"/><img alt="" class="xj-z" data-z="2-3" decoding="async" height="283" loading="lazy" src="bp/z-inst3.jpg?v=20261126010235" style="color:transparent" width="1400"/><img alt="" class="xj-z" data-z="2-4" decoding="async" height="283" loading="lazy" src="bp/z-inst4.jpg?v=20261126010235" style="color:transparent" width="1400"/><img alt="" class="xj-z" data-z="2-5" decoding="async" height="566" loading="lazy" src="bp/z-inst5.jpg?v=20261126010235" style="color:transparent" width="1400"/></div><div class="xj-glasses"><div class="g3d g3d-mini" data-glasses3d="mini"></div></div><div class="xj-bench"><img alt="" decoding="async" height="675" loading="eager" src="bp/bench-pov.jpg?v=20261126010235" style="color:transparent" width="1200"/><span class="xj-ret"></span><div class="xj-hud xj-hud-task"><b>第 1/9 步</b>加水 · 20 µL</div><div class="xj-hud xj-hud-read"><span>当前读数</span><strong>201.6 µL</strong><em>超出标称量程</em></div><div class="xj-hud xj-hud-say"><i></i>请朝减小方向调整旋钮，目标 20 微升。</div></div><div class="xj-monitor"><div class="xj-mscreen"><img alt="" decoding="async" height="944" loading="eager" src="bp/teacher-workspace.png?v=20261128-c" style="color:transparent" width="1458"/><span class="xj-fcard"></span><span class="xj-fpulse"></span><span class="xj-tgt" data-tgt="0" style="left:28.7%;top:74.5%">01</span><span class="xj-tgt" data-tgt="1" style="left:57.7%;top:69.5%">02</span><span class="xj-tgt" data-tgt="2" style="left:63.3%;top:20.3%">03</span></div></div></div></div><p class="x-foot xj-foot">实验室为示意图；画面来自学生端、仪器训练与教师端原型及演示录屏；眼镜为示意渲染，界面为中文版。</p></section><section class="x-band x-ev ev2" id="zh-project--evidence"><div class="x-wrap"><header class="x-head"><p class="x-kicker">识别效果</p><h2>看懂实验过程，而不只是认出器材。</h2><p>提示要有用，眼镜得知道学生正在做哪一步、做得对不对。</p></header>
 <div class="ev4" data-inview="true">
 <div class="ev4-stat">
 <p class="ev4-k">关键动作识别准确率</p>

diff --git a/theme.css b/theme.css
@@ -225,3 +225,37 @@
   .ev4-pics { grid-template-columns: none; grid-auto-flow: column; grid-auto-columns: 78%; overflow-x: auto; scroll-snap-type: x mandatory; margin-left: -16px; margin-right: -16px; padding: 0 16px; scrollbar-width: none; }
   .ev4-pics li { scroll-snap-align: start; }
 }
+
+/* ======================= rhythm: section tints + one accent ======================= */
+:root { --t-teal: #1f6f5c; --t-teal-2: #2f8a73; --t-warm: #b4561a; }
+/* section bands alternate: warm paper → cool grey-blue → sage → paper */
+.lt .xj { background: #f4f1ec !important; }
+.lt #zh-project--evidence { background: #e9eef2 !important; }
+.lt #zh-project--partners { background: #e7ece6 !important; }
+.lt .x-gallery { background: #f4f1ec; padding-top: 24px; padding-bottom: 56px; }
+.lt .x-band + .x-band, .lt .xj + .x-band { border-top: 0 !important; }
+
+/* accent: teal for "with LabMate", warm orange for "today's problem" */
+.lt .x-kicker { border-bottom-color: var(--t-teal) !important; }
+.lt .xj-when { background: var(--t-teal) !important; border-color: var(--t-teal) !important; color: #fff !important; }
+.lt .xj-cap[data-cap="0"] .xj-when { background: #fff3ea !important; border-color: var(--t-warm) !important; color: var(--t-warm) !important; }
+.lt .x-chap b { color: var(--t-teal) !important; }
+.lt .xj-cap[data-cap="0"] .x-chap b { color: var(--t-warm) !important; }
+.lt .xj-bar > span:first-child small { color: var(--t-warm) !important; }
+.lt .xj .xj-steps li.on::before { background: var(--t-teal) !important; border-color: var(--t-teal) !important; }
+.lt .xj .xj-steps li.on { border-color: var(--t-teal) !important; }
+.lt .xj-cap[data-cap="0"] .xj-steps li.on::before { background: var(--t-warm) !important; border-color: var(--t-warm) !important; }
+.lt .xj-cap[data-cap="0"] .xj-steps li.on { border-color: var(--t-warm) !important; }
+
+/* evidence metric as a deep navy panel */
+.lt .ev4 { background: #0b1f30; color: #fff; border-radius: 4px; padding: clamp(24px, 3.5vw, 48px); }
+.lt .ev4 .ev4-k { color: #9fd8c6; }
+.lt .ev4 .ev4-num { color: #fff; }
+.lt .ev4 .ev4-d, .lt .ev4 .ev4-bars li { color: #c9d3dc; }
+.lt .ev4 .ev4-bars li.us { color: #fff; }
+.lt .ev4 .ev4-bars i { background: linear-gradient(90deg, #6f8396 calc(var(--v) * 100%), rgba(255, 255, 255, 0.12) 0); }
+.lt .ev4 .ev4-bars li.us i { background: linear-gradient(90deg, #4fc3a1 calc(var(--v) * 100%), rgba(255, 255, 255, 0.12) 0); }
+.lt .ev4 .ev4-fig figcaption { color: #c9d3dc; }
+.lt .ev2-k { color: var(--t-teal) !important; }
+.lt .ev2-compare td.y, .lt .ev2-compare th.us, .lt .ev2-compare td:last-child { color: var(--t-teal) !important; }
+.ev4-fig figcaption { margin-top: 30px !important; }
